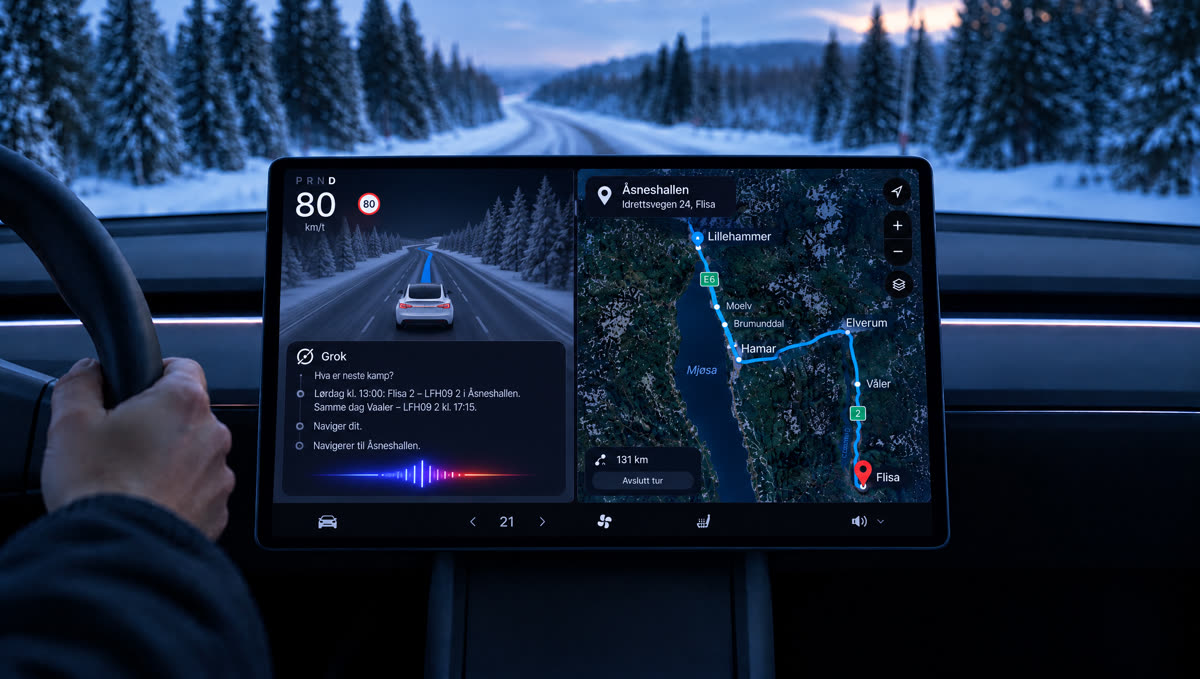
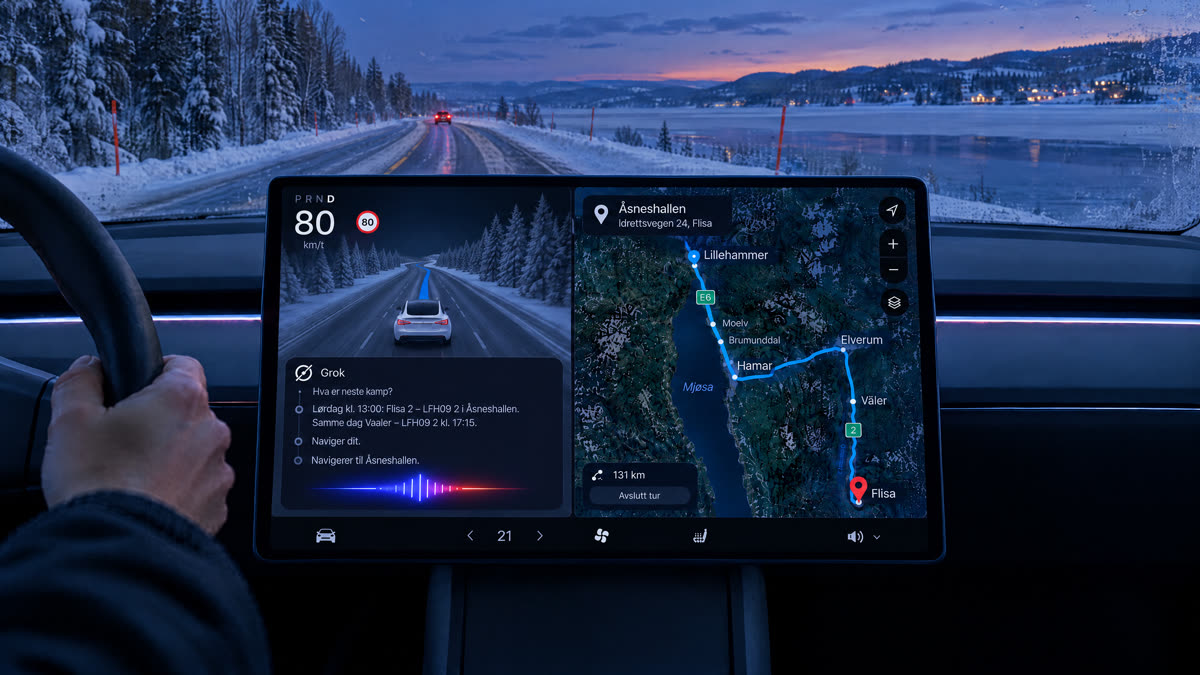
fix: ultrarealistisk vinterlandskap langs Mjøsa i Tesla-bildet
Claude-Session: https://claude.ai/code/session_01XfQKzvQjTJFnDciHvXKS2K

diff --git a/knatt-i-bilen/index.html b/knatt-i-bilen/index.html
@@ -241,7 +241,7 @@ pre .k { color: var(--lime); } pre .s { color: var(--glod-l); } pre .c { opacity
   <div class="container">
     <figure>
       <div class="shot-frame" data-reveal>
-        <img src="tesla-grok.webp" width="1600" height="905" alt="Illustrasjon: den liggende skjermen i en Tesla Model Y en vinterkveld. Til venstre kjørevisningen med Grok-kortet, til høyre kartet. Kartet viser ruta fra Lillehammer langs E6 på østsiden av Mjøsa til Hamar, videre til Elverum og Rv 2 sørover til Flisa, og Grok-kortet viser samtalen: «Hva er neste kamp?» — «Lørdag kl. 13:00: Flisa 2 – LFH09 2 i Åsneshallen. Samme dag Vaaler – LFH09 2 kl. 17:15.» — «Naviger dit.» — «Navigerer til Åsneshallen.»">
+        <img src="tesla-grok.webp" width="1920" height="1080" alt="Illustrasjon: på E6 langs den islagte Mjøsa en vinterkveld, med den liggende skjermen i en Tesla Model Y. Til venstre kjørevisningen med Grok-kortet, til høyre kartet. Kartet viser ruta fra Lillehammer langs E6 på østsiden av Mjøsa til Hamar, videre til Elverum og Rv 2 sørover til Flisa, og Grok-kortet viser samtalen: «Hva er neste kamp?» — «Lørdag kl. 13:00: Flisa 2 – LFH09 2 i Åsneshallen. Samme dag Vaaler – LFH09 2 kl. 17:15.» — «Naviger dit.» — «Navigerer til Åsneshallen.»">
       </div>
       <figcaption>Illustrasjon laget med KI · kampene er ekte, fra Knatt-lite</figcaption>
     </figure>

diff --git a/index.html b/index.html
@@ -1441,7 +1441,7 @@ a, button { transition: opacity 0.15s ease; }
         <p>Spør assistenten i bilen, og få svaret fra Knatt — tid, motstander, hall og vei dit. Bare offentlige lagdata fra Min Håndball.</p>
         <span class="bilen-lenke">Les saken →</span>
       </div>
-      <img src="/knatt-i-bilen/tesla-grok.webp" width="1600" height="905" loading="lazy" alt="Illustrasjon: Grok på skjermen i en Tesla svarer på «Hva er neste kamp?» og navigerer til Åsneshallen">
+      <img src="/knatt-i-bilen/tesla-grok.webp" width="1920" height="1080" loading="lazy" alt="Illustrasjon: Grok på skjermen i en Tesla svarer på «Hva er neste kamp?» og navigerer til Åsneshallen">
     </a>
   </div>
 </section>
